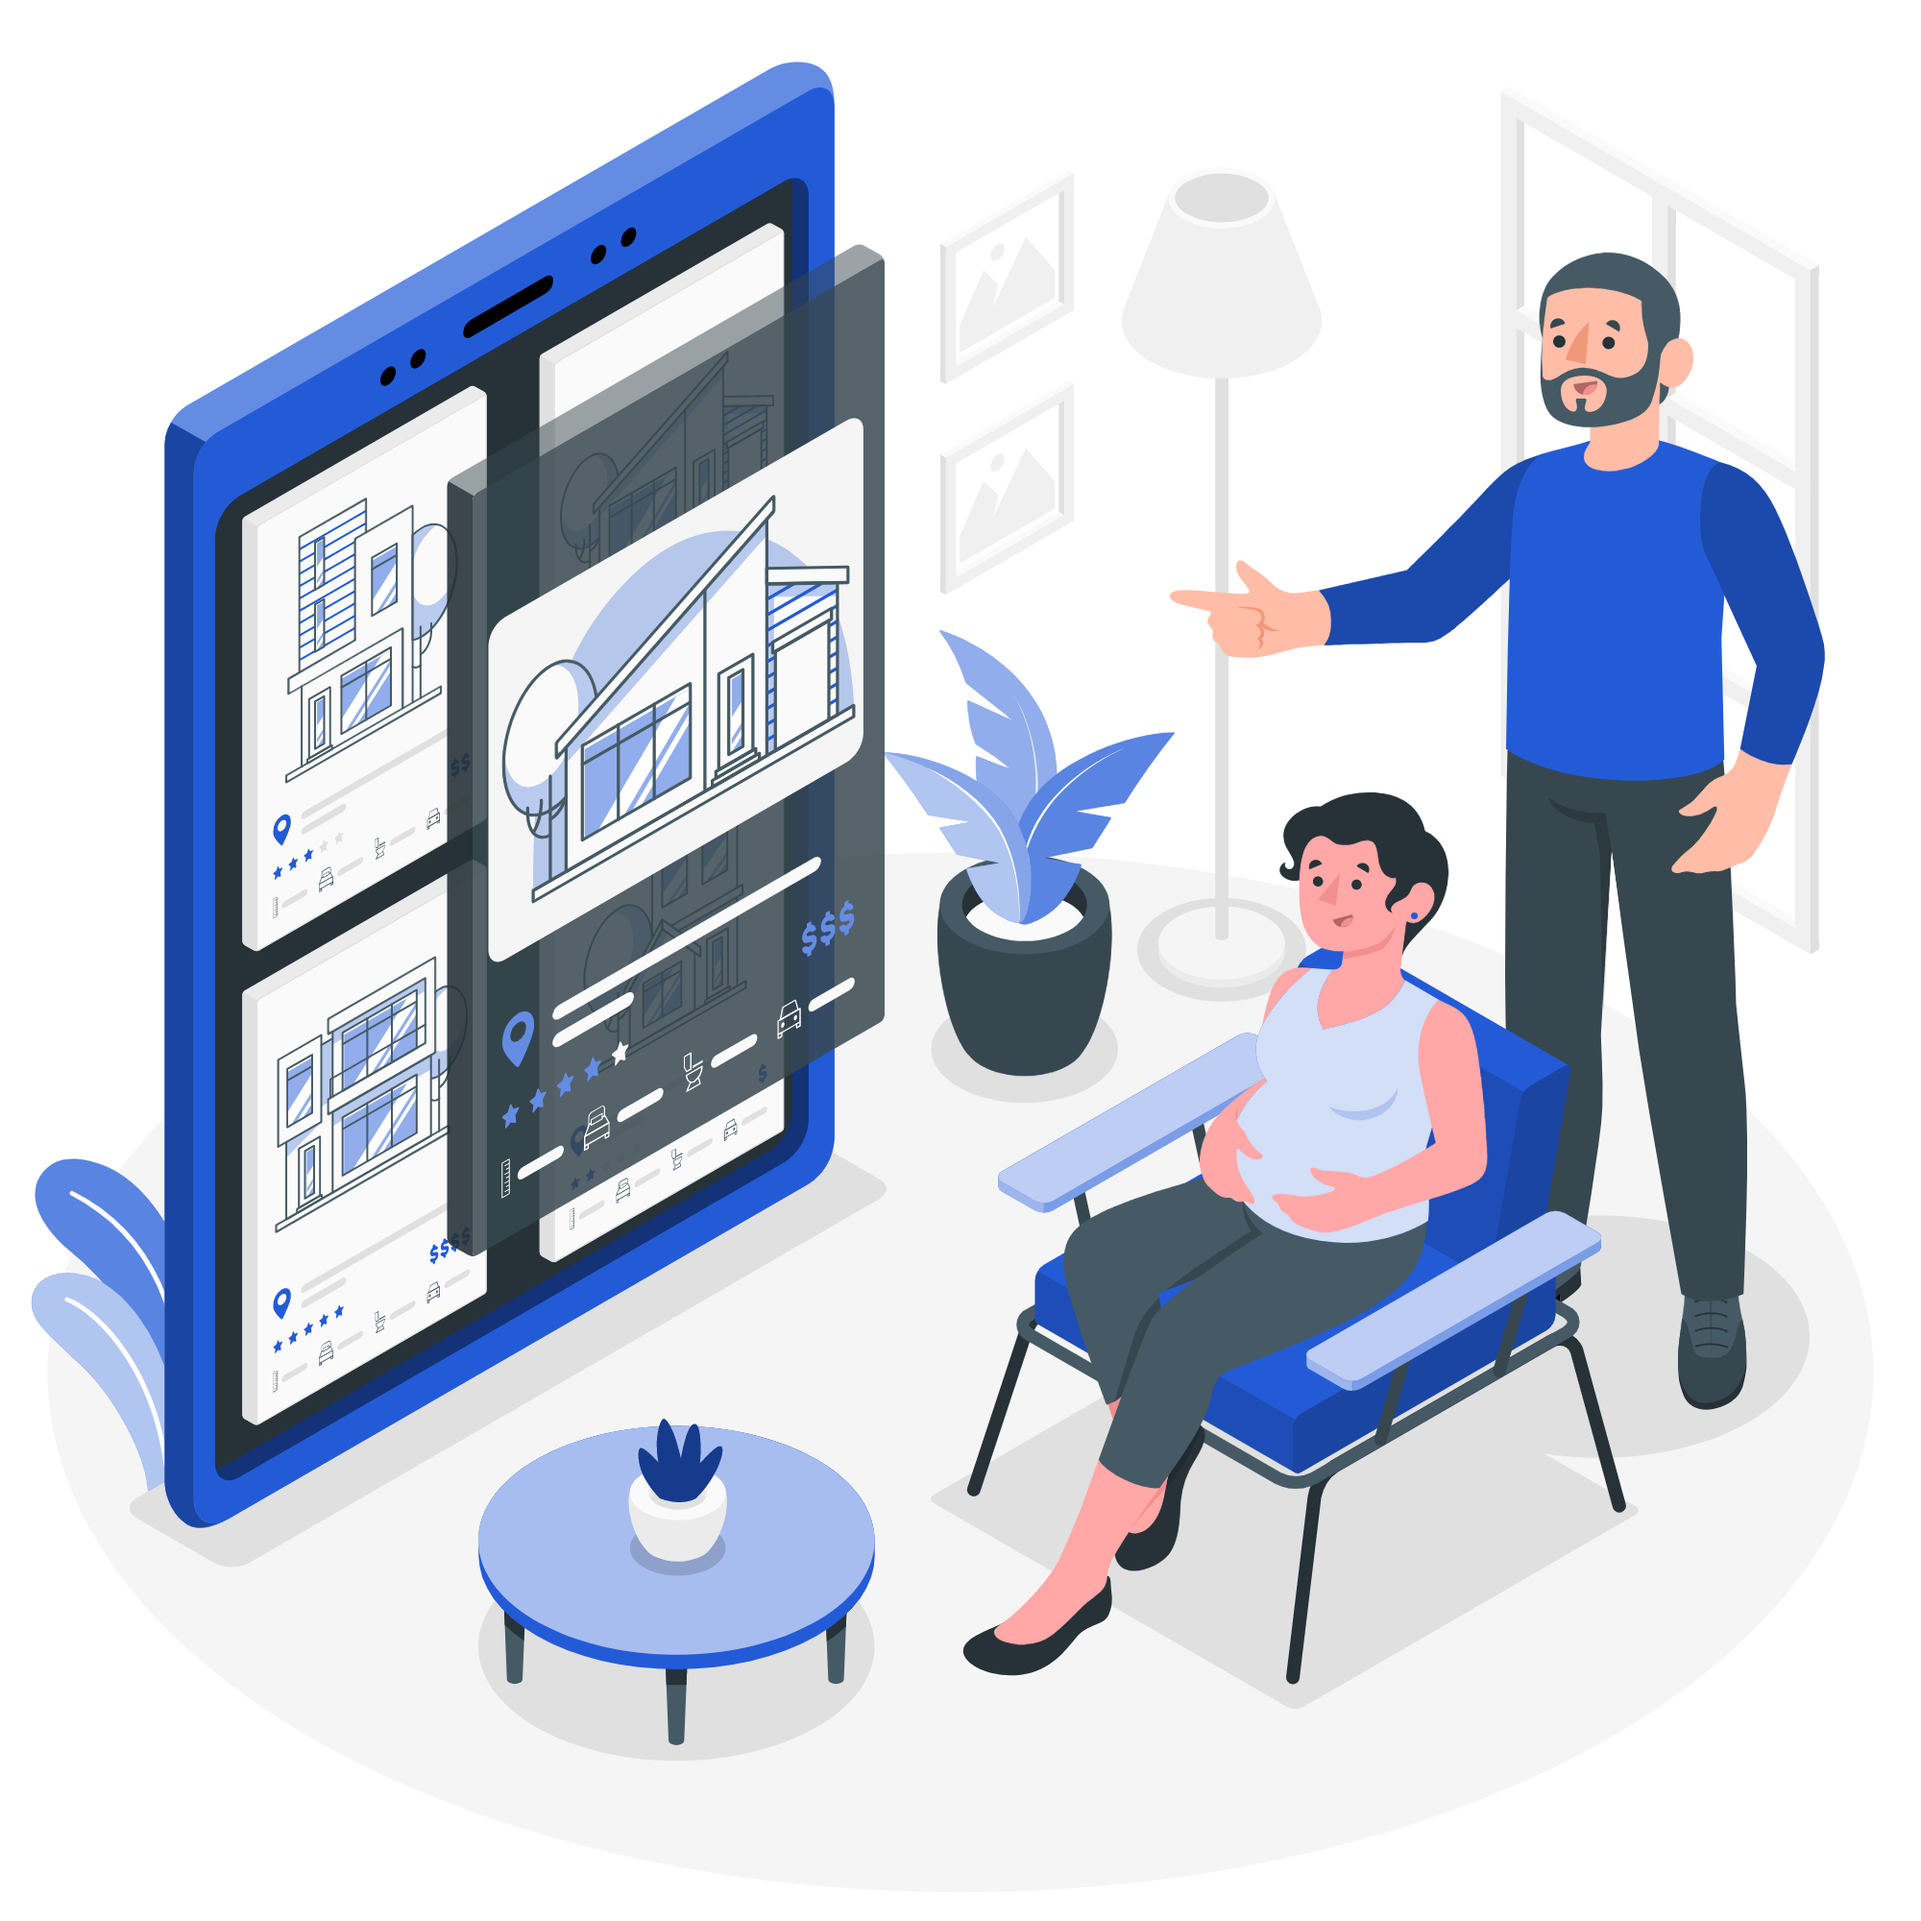
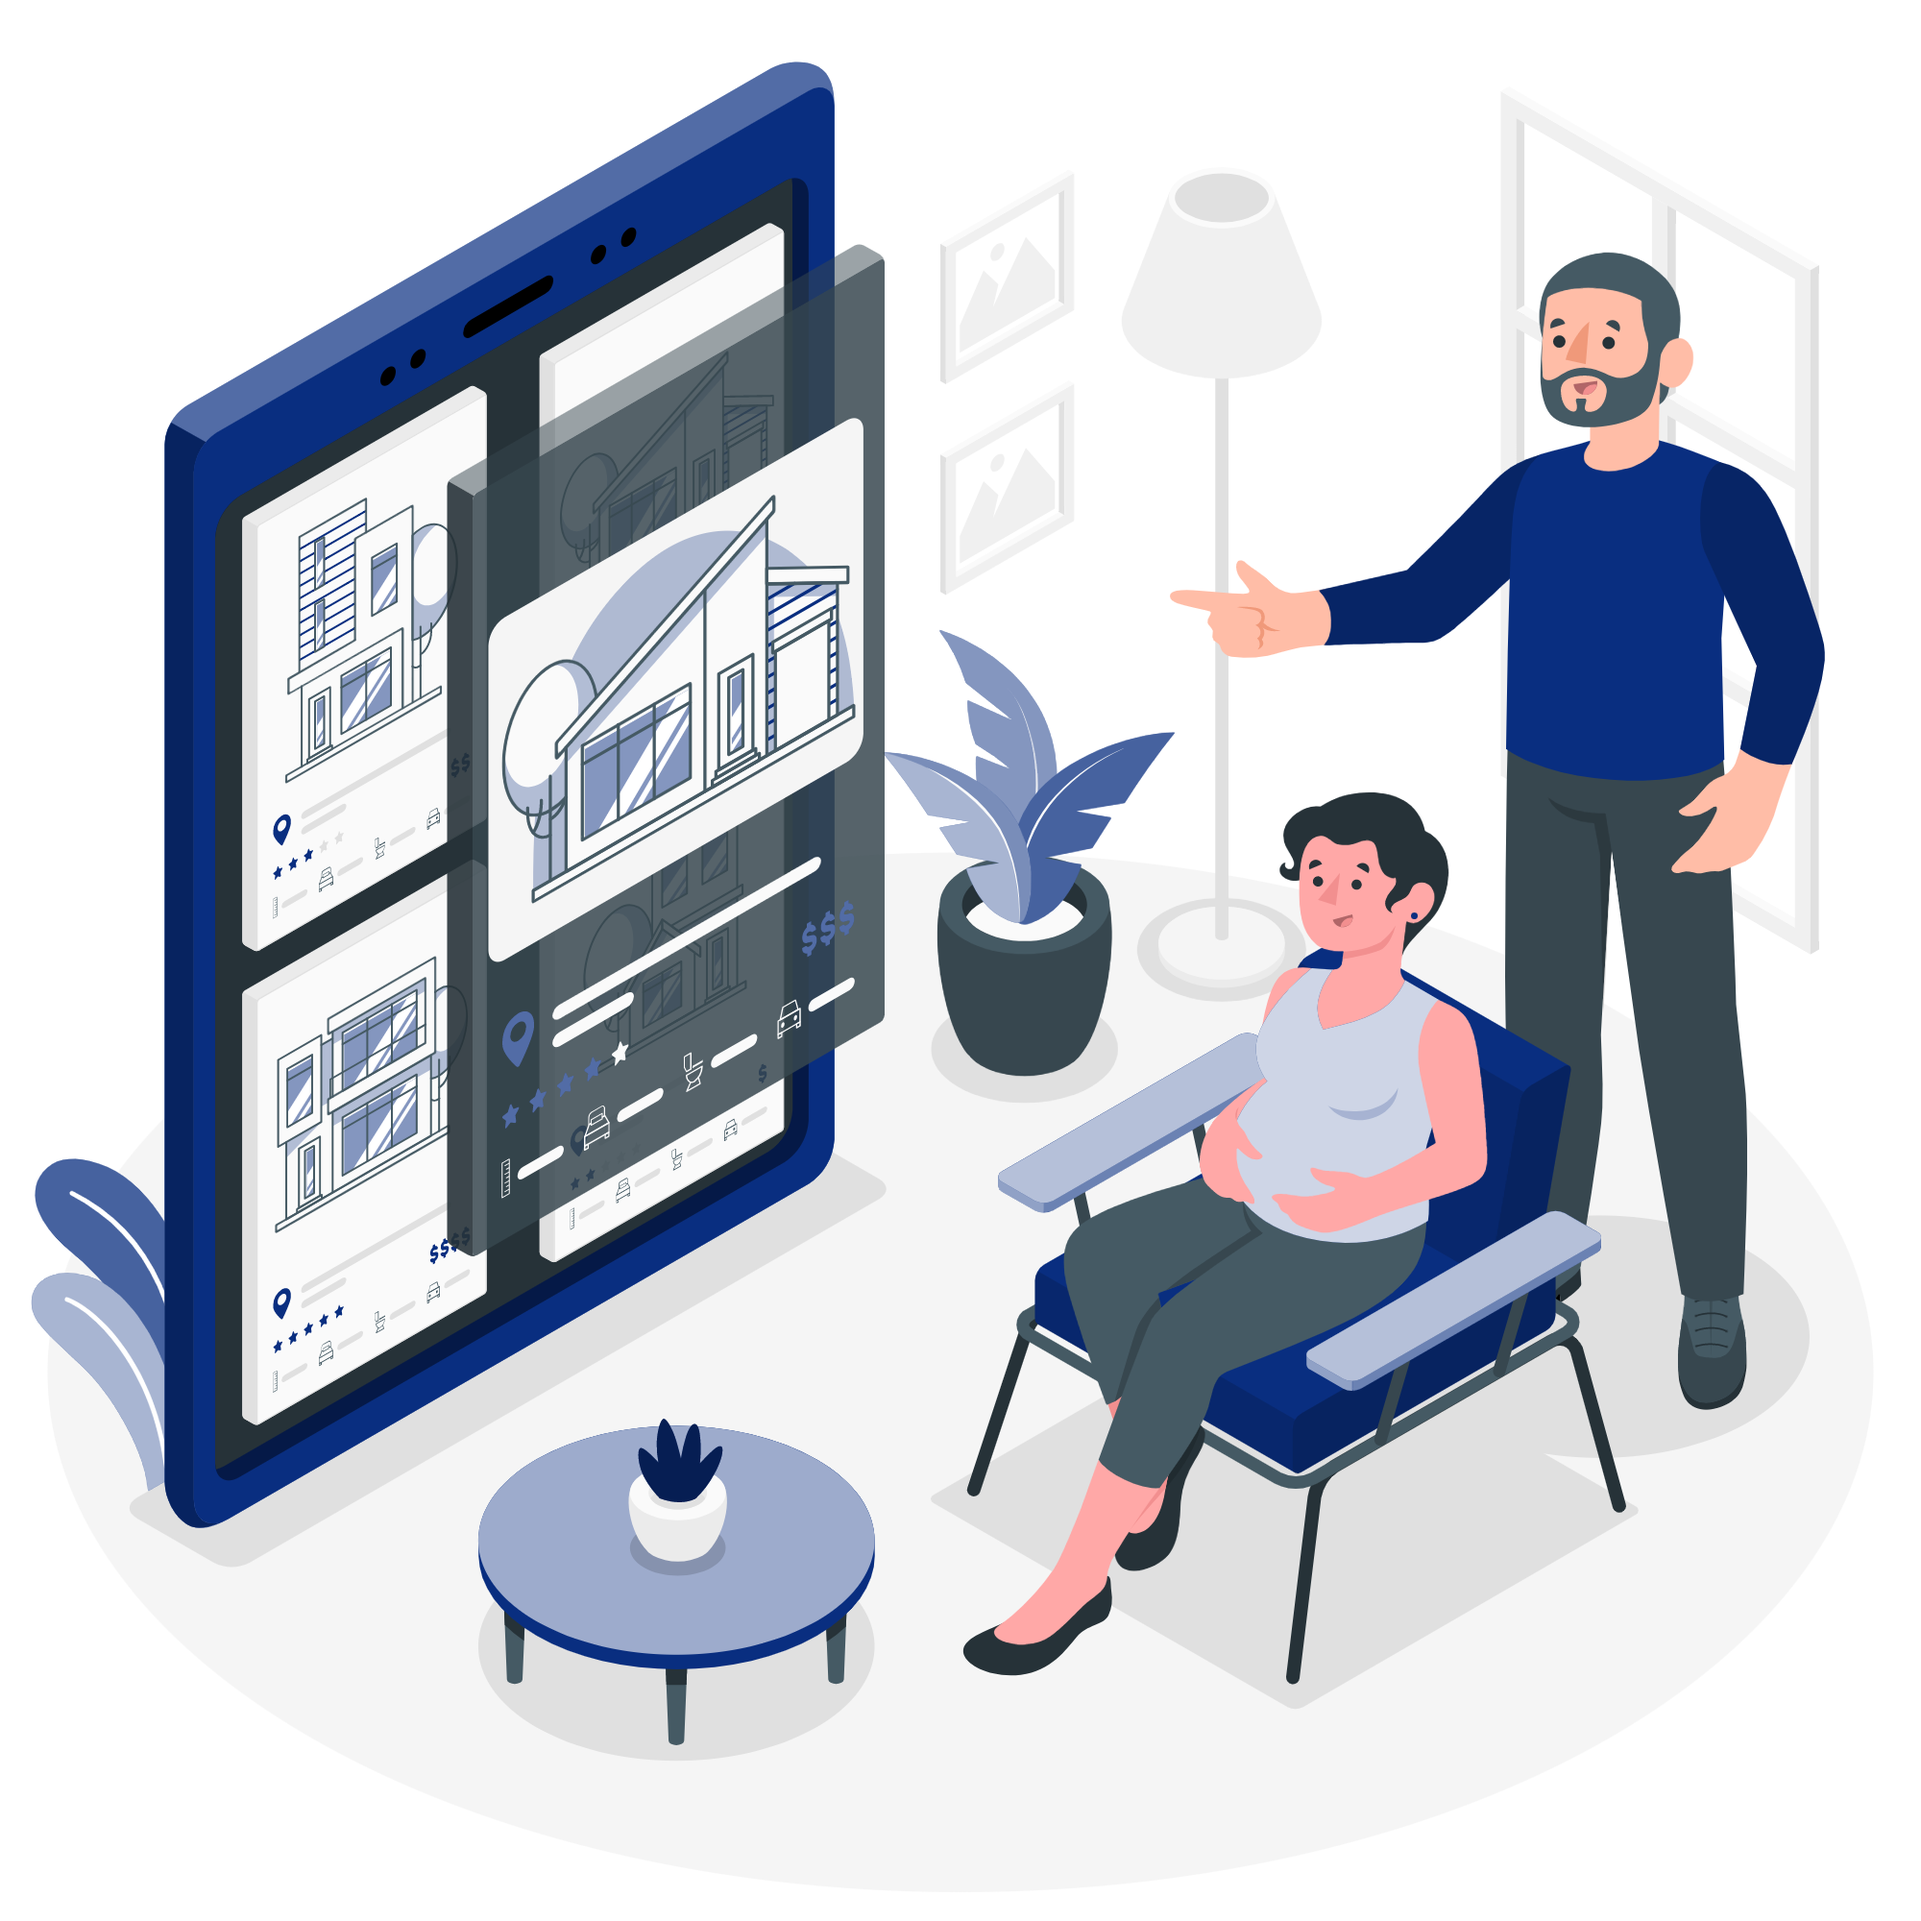
dashboard login signup updated

diff --git a/src/Components/SignUp/Login.js b/src/Components/SignUp/Login.js
@@ -2,12 +2,12 @@ import React, { useContext, useState } from "react";
 import { Link, useLocation, useNavigate } from "react-router-dom";
 import Swal from "sweetalert2";
 import login from "../../Assets/Select house-amico.png";
+import { AuthContext } from "../../Contexts/UserContext";
 
 
 
 const Login = () => {
-    // const { googleLogin, facebookLogin, loginUser, forgetPassword } =
-    //     useContext(AuthContext);
+    const { googleLogin, loginUser, forgetPassword } = useContext(AuthContext);
     const location = useLocation();
     const from = location.state?.from?.pathName || "/";
     const navigate = useNavigate();
@@ -16,77 +16,80 @@ const Login = () => {
     const [error, setError] = useState("");
 
     // email log in
-    //   const handleSubmit = (e) => {
-    //     setLoading(true);
-    //     e.preventDefault();
-    //     const form = e.target;
-    //     const email = form.email.value;
+    const handleSubmit = (e) => {
+        setLoading(true);
+        e.preventDefault();
+        const form = e.target;
+        const email = form.email.value;
 
-    //     loginUser(email, password)
-    //       .then((res) => {
-    //         console.log(res.user);
-    //         Swal.fire("Success", `Welcome to Harkrx `, "success");
-    //         setLoading(false);
-    //         navigate(from, { replace: true });
-    //       })
-    //       .catch((err) => {
-    //         Swal.fire("Opps", err.message, "error");
-    //         setLoading(false);
-    //       });
-    //   };
+        loginUser(email, password)
+            .then((res) => {
+                console.log(res.user);
+                Swal.fire("Success", `Welcome to LandLord`, "success");
+                setLoading(false);
+                navigate(from, { replace: true });
+            })
+            .catch((err) => {
+                Swal.fire("Opps", err.message, "error");
+                setLoading(false);
+            });
+    };
+
     // google log in
-    //   const handleGoogle = (e) => {
-    //     setLoading(true);
-    //     e.preventDefault();
-    //     googleLogin()
-    //       .then((res) => {
-    //         const user = {
-    //           name: res?.user?.displayName,
-    //           email: res?.user?.email,
-    //           img: res?.user?.photoURL,
-    //         };
-    //         fetch("https://harkrx-server.vercel.app/users", {
-    //           method: "POST",
-    //           headers: {
-    //             "content-type": "application/json",
-    //           },
-    //           body: JSON.stringify(user),
-    //         })
-    //           .then((res) => res.json())
-    //           .then((data) => {
-    //             Swal.fire("Success", "Google Log In", "success");
-    //             setLoading(false);
+    const handleGoogle = (e) => {
+        setLoading(true);
+        e.preventDefault();
+        googleLogin()
+            .then((res) => {
+                // const user = {
+                //   name: res?.user?.displayName,
+                //   email: res?.user?.email,
+                //   img: res?.user?.photoURL,
+                // };
+                // fetch("https://harkrx-server.vercel.app/users", {
+                //   method: "POST",
+                //   headers: {
+                //     "content-type": "application/json",
+                //   },
+                //   body: JSON.stringify(user),
+                // })
+                //   .then((res) => res.json())
+                //   .then((data) => {
+                //     Swal.fire("Success", "Google Log In", "success");
+                //     setLoading(false);
 
-    //             navigate("/");
-    //           });
-    //       })
-    //       .catch((err) => {
-    //         Swal.fire("Opps", err.message, "error");
-    //         setLoading(false);
-    //       });
-    //   };
+                //     navigate("/");
+                //   });
+                console.log("successfully logged in");
+                navigate('/');
+            })
+            .catch((err) => {
+                Swal.fire("Opps", err.message, "error");
+                setLoading(false);
+            });
+    };
 
     // forget pass
-    // const handleForget = async () => {
-    //     const { value: email } = await Swal.fire({
-    //         title: "Input email address",
-    //         input: "email",
-    //         inputLabel: "Your email address",
-    //         inputPlaceholder: "Enter your email address",
-    //     });
+    const handleForget = async () => {
+        const { value: email } = await Swal.fire({
+            title: "Input email address",
+            input: "email",
+            inputLabel: "Your email address",
+            inputPlaceholder: "Enter your email address",
+        });
 
-    //     if (email) {
-    //         forgetPassword(email)
-    //             .then(() => {
-    //                 Swal.fire(
-    //                     "Email send!!",
-    //                     `Password reset email send to : ${email}, please check your spam/junk folder`,
-    //                     "success"
-    //                 );
-    //             })
-    //             .catch((err) => Swal.fire(err.message));
-    //     }
-    // };
+        if (email) {
+            forgetPassword(email)
+                .then(() => {
+                    Swal.fire(
+                        "Email send!!",
+                        `Password reset email send to : ${email}, please check your spam/junk folder`,
+                        "success"
+                    );
+                })
+                .catch((err) => Swal.fire(err.message));
+        }
+    };
 
     // setPass
     const handlePassword = (e) => {
@@ -121,7 +124,7 @@ const Login = () => {
                             </h2>
 
                             <form
-                                // onSubmit={handleSubmit}
+                                onSubmit={handleSubmit}
                                 className="w-full border rounded-xl shadow-lg mx-auto"
                             >
                                 <div className="flex flex-col gap-4 p-4 md:p-8">
@@ -158,7 +161,7 @@ const Login = () => {
                                         )}
                                     </div>
                                     <p
-                                        // onClick={handleForget}
+                                        onClick={handleForget}
                                         className="text-right hover:text-indigo-700 cursor-pointer hover:underline "
                                     >
                                         forget password?
@@ -182,7 +185,7 @@ const Login = () => {
                                     </div>
 
                                     <button
-                                        // onClick={handleGoogle}
+                                        onClick={handleGoogle}
                                         className="flex justify-center items-center bg-base-100 hover:bg-base-100 active:bg-gray-200 border border-gray-300 focus-visible:ring ring-gray-300 text-gray-800 text-sm md:text-base font-semibold text-center rounded-lg outline-none transition duration-100 gap-2 px-8 py-3"
                                     >
                                         {loading ? (

diff --git a/src/Components/Myproperties/MyProperties.js b/src/Components/Myproperties/MyProperties.js
@@ -5,7 +5,7 @@ import AddPropertyModal from '../Modals/AddPropertyModal';
 
 const MyProperties = () => {
     return (
-        <div className='grid grid-cols-1 md:grid-cols-2 max-w-3xl mx-auto my-20 gap-10'>
+        <div className='grid grid-cols-1 md:grid-cols-2 max-w-3xl mx-auto my-32 gap-10'>
             {/* card 1 */}
             <div>
                 <Link to={`/single`} class="block rounded-lg p-4 shadow-lg shadow-indigo-200 hover:scale-110 ease-in duration-100">
@@ -320,7 +320,7 @@ const MyProperties = () => {
             <div>
                 <label htmlFor="add-property" class="rounded-lg p-4 shadow-lg shadow-indigo-200 h-full flex justify-center items-center hover:scale-110 ease-in duration-100">
                     <div>
-                        <FaPlus className='text-7xl text-indigo-500' />
+                        <FaPlus className='text-7xl text-blue-900' />
                     </div>
                 </label>
             </div>

diff --git a/src/Components/Myproperties/SingleProperty.js b/src/Components/Myproperties/SingleProperty.js
@@ -8,13 +8,13 @@ import NewPaymentModal from '../Modals/NewPaymentModal';
 
 const SingleProperty = () => {
     return (
-        <div className='max-w-2xl mx-auto flex flex-col'>
+        <div className='max-w-2xl mx-auto flex flex-col my-32'>
 
             {/* back to home */}
             <div className='flex items-center mt-10'>
                 <BsArrowLeft className='mr-2' />
                 <div>
-                    <Link to='/properties' className='mt-10 font-bold text-lg hover:underline text-indigo-500'>Back to My Properties</Link>
+                    <Link to='/properties' className='mt-10 font-bold text-lg hover:underline text-blue-900'>Back to My Properties</Link>
                 </div>
             </div>
             <div className='flex'>

diff --git a/src/Components/Dashboard/Dashboard.js b/src/Components/Dashboard/Dashboard.js
@@ -1,9 +1,10 @@
 import React from 'react';
+import img from "../../Assets/Design stats-bro.png";
 
 const Dashboard = () => {
     return (
-        <div>
-            <h2>Dashboard</h2>
+        <div className='my-32 flex justify-center items-center'>
+            <img src={img} alt="" className='w-96' />
         </div>
     );
 };
